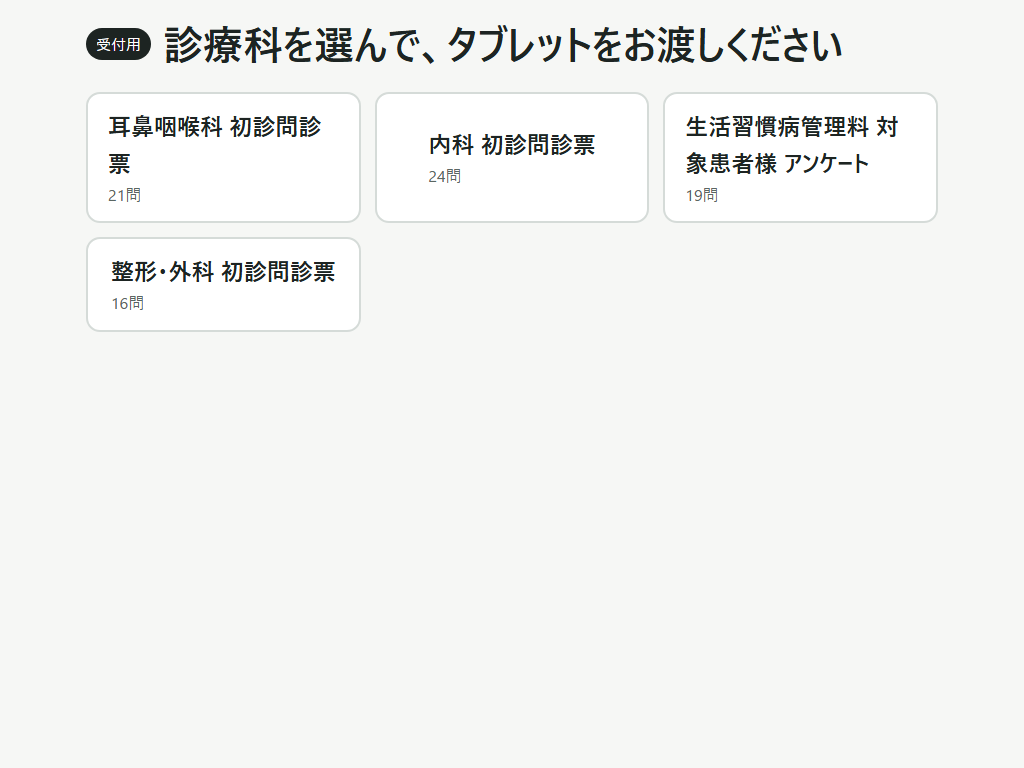
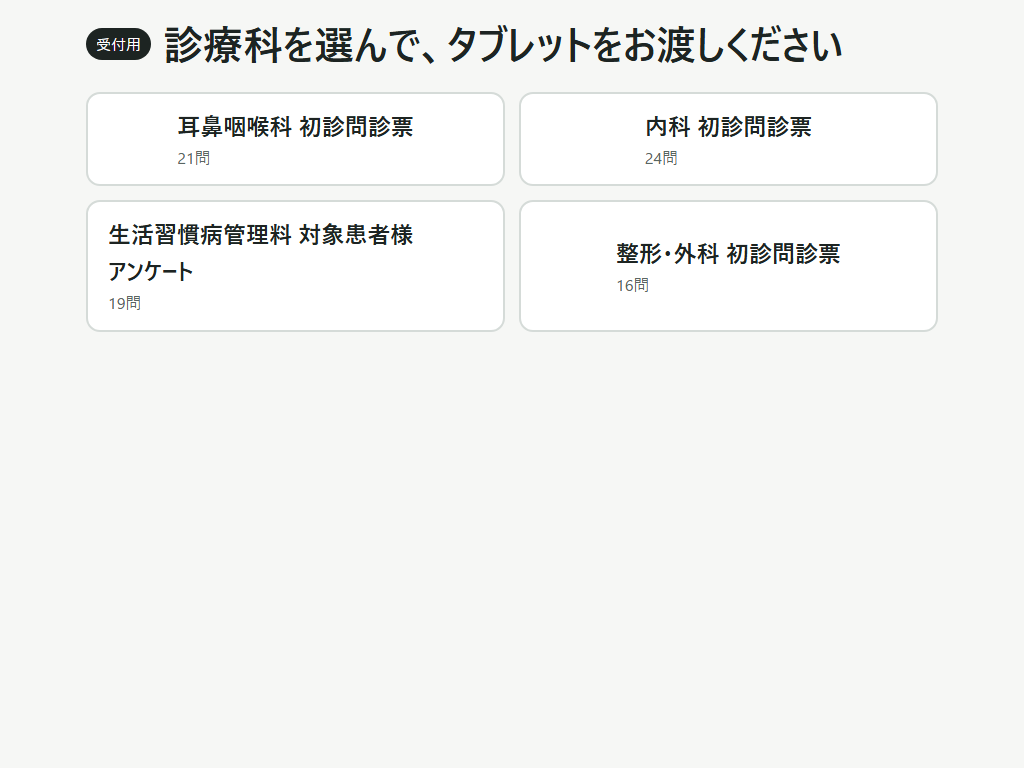
数字ボタンの数字を枠に収める／受付の診療科の名前を1行に収める（実機での指摘）
- 数字の大きさを、ボタンの高さから決める（「大」にしてもはみ出さない）。「1文字消す」も1行に
- 受付の診療科のボタンを2列にして、名前が1行に入る幅にする。長い名前は言葉の切れ目で折り返す
- 測る道具に、ボタンの中身が枠からはみ出していないかの確認を足す

diff --git a/web/style.css b/web/style.css
@@ -86,8 +86,9 @@ h1, h2 { margin: 0; line-height: 1.4; }
 .step { background: var(--card); border: 1px solid var(--line); border-radius: var(--radius); padding: 20px; display: flex; flex-direction: column; gap: 14px; }
 .step h2 { font-size: 1.05rem; display: flex; align-items: center; gap: 10px; }
 .num { display: inline-grid; place-items: center; width: 34px; height: 34px; border-radius: 50%; background: var(--accent); color: #fff; font-size: .9rem; }
-.form-list { display: grid; grid-template-columns: repeat(auto-fill, minmax(260px, 1fr)); gap: 14px; }
-.form-choice { min-height: 110px; font-size: 1.15rem; justify-content: center; text-align: center; }
+/* 診療科の名前（「耳鼻咽喉科 初診問診票」くらいの長さ）が1行に入る幅にする。もっと長い名前は、言葉の切れ目（空白）で折り返す */
+.form-list { display: grid; grid-template-columns: repeat(auto-fill, minmax(min(340px, 100%), 1fr)); gap: 14px; }
+.form-choice { min-height: 110px; font-size: 1.15rem; justify-content: center; text-align: center; word-break: keep-all; overflow-wrap: break-word; }
 .pcode-input {
   font-size: 2rem; letter-spacing: .15em; padding: 12px 16px; border: 2px solid var(--line);
   border-radius: var(--radius); width: 100%; background: #fff;
@@ -144,13 +145,21 @@ textarea:focus, .q-input:focus { outline: 3px solid var(--accent); border-color:
 }
 .num-display.empty { border-style: dashed; }
 .num-value { font-size: 2.2rem; line-height: 1.2; font-weight: 800; font-variant-numeric: tabular-nums; min-width: 1.5em; text-align: right; }
-.numpad { display: grid; grid-template-columns: repeat(3, 1fr); gap: 10px; width: 100%; max-width: 420px; margin: 0 auto; }
+/* --key はボタンの高さ。数字の大きさはボタンの高さから決める（文字を「大」にしても、数字が枠からはみ出さない） */
+.numpad {
+  --key: 56px;
+  --key: clamp(56px, calc(var(--vh) * 8), 84px);
+  display: grid; grid-template-columns: repeat(3, 1fr); gap: 10px; width: 100%; max-width: 420px; margin: 0 auto;
+}
 .num-key {
-  min-height: 56px; height: calc(var(--vh) * 8); max-height: 84px; border-radius: var(--radius);
-  border: 2px solid var(--line); background: var(--card); font-size: 1.8rem; font-weight: 700; cursor: pointer;
+  display: flex; align-items: center; justify-content: center;      /* Safari でも、数字をボタンのまん中に置く */
+  height: var(--key); padding: 0; line-height: 1; overflow: hidden; white-space: nowrap; border-radius: var(--radius);
+  border: 2px solid var(--line); background: var(--card); font-weight: 700; cursor: pointer;
+  font-size: 30px;
+  font-size: min(1.8rem, calc(var(--key) * .6));
 }
 .num-key:active { background: var(--accent-soft); border-color: var(--accent); }
-.num-key.del { font-size: .9rem; color: var(--muted); }
+.num-key.del { color: var(--muted); font-size: 16px; font-size: min(.9rem, calc(var(--key) * .34)); }
 .choice.talk { margin-top: 4px; }
 
 /* 人体シェーマ */
@@ -267,7 +276,7 @@ body.has-topbar .screen.fit { height: calc(var(--vh) * 100 - var(--topbar) - 44p
 .screen.k2 .q-text { font-size: 1.25rem; }
 .screen.k2 .nav .btn { min-height: 60px; padding-top: 8px; padding-bottom: 8px; }
 .screen.k2 .q-body:not(.dense) .choice { min-height: 52px; padding-top: 6px; padding-bottom: 6px; }
-.screen.k2 .num-key { min-height: 46px; height: calc(var(--vh) * 6.5); }
+.screen.k2 .numpad { --key: 46px; --key: clamp(46px, calc(var(--vh) * 6.5), 84px); }
 .screen.k2 .num-display { min-height: 2.6rem; }
 .screen.k2 textarea { min-height: 96px; }
 .screen.k3 .q-text { font-size: 1.1rem; }
@@ -275,7 +284,7 @@ body.has-topbar .screen.fit { height: calc(var(--vh) * 100 - var(--topbar) - 44p
 .screen.k3 .nav .btn { min-height: 52px; padding-top: 4px; padding-bottom: 4px; }
 .screen.k3 .q-body .choice { min-height: 46px; padding-top: 4px; padding-bottom: 4px; }
 .screen.k3 .q-body.cols2, .screen.k3 .q-body.cols3, .screen.k3 .q-body.cols4 { gap: 6px; }
-.screen.k3 .num-key { min-height: 44px; height: calc(var(--vh) * 6); }
+.screen.k3 .numpad { --key: 44px; --key: clamp(44px, calc(var(--vh) * 6), 84px); gap: 8px; }
 .screen.k3 .num-value { font-size: 1.8rem; }
 /* k4：ここまで詰めても収まらないとき（選択肢がとても多い設問を「大」で見たとき など）。文字は「中」のふつうの大きさより小さくしない */
 .screen.k4 { gap: 6px; }

diff --git a/tools/fit_scan.js b/tools/fit_scan.js
@@ -31,6 +31,13 @@ window.__scan = async function () {
           over = Math.max(over, Math.round(nav.bottom - window.innerHeight));
           count++;
           worst = Math.max(worst, over);
+          // 押す所の中身（数字・選択肢の言葉）が、枠からはみ出していないか
+          var parts = document.querySelectorAll("#s-question .num-key, #s-question .choice, #s-question .btn, #s-question .body-tab");
+          var spill = 0;
+          for (var p = 0; p < parts.length; p++) {
+            if (parts[p].scrollHeight > parts[p].clientHeight + 1 || parts[p].scrollWidth > parts[p].clientWidth + 1) spill++;
+          }
+          if (spill) bad.push(form.id + "/" + langs[li] + "/" + sizes[s] + "/" + (k + 1) + "." + q.id + "：枠から中身がはみ出すボタン " + spill + "個");
           if (over > 0 || hover > 0) {
             bad.push(form.id + "/" + langs[li] + "/" + sizes[s] + "/" + (k + 1) + "." + q.id + "(" + q.type + "," + (q.options ? q.options.length : 0) + "):" + over + (hover > 0 ? " 横" + hover : ""));
           }

diff --git a/PROGRESS.md b/PROGRESS.md
@@ -166,6 +166,11 @@ aika_2回目.yaml
     高さ 640〜650 の横向き（画面の低い端末）では、「大」で記入欄を開いたときだけ、最大74pxはみ出す設問が残る
   - 測っている途中で見つけた不具合（別の問診票を開いた直後に文字の大きさを変えるとエラー）も直した
 
+- 実機での指摘3（写真つき）：「大」にすると数字ボタンの数字が枠からはみ出す／受付の画面で「耳鼻咽喉科 初診問診票」が2行に折れる
+  - 数字ボタン：数字の大きさを、文字の大きさの設定ではなくボタンの高さから決めるようにした（高さの6割まで）。「1文字消す」も1行に収める
+  - 受付：診療科のボタンを3列から2列にして、名前が1行に入る幅にした。長い名前は言葉の切れ目（空白）で折り返す
+  - 測る道具に「ボタンの中身が枠からはみ出していないか」の確認を足した。318画面すべて0
+
 ### 次にやること
 - 里川さん：作る画面の「外国語」で訳を確かめて公開（4枚×2言語）
 - GitHub公開（リポジトリ名と README の clone のURLを確認）、実機確認、動画、概要文
